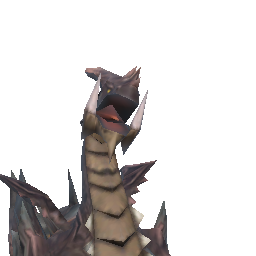
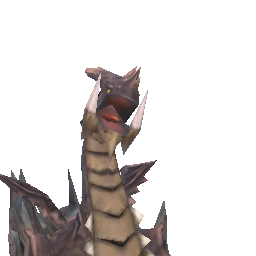
드래곤 보스 크기 1.5배 — 몸 ×6 → ×9, 공격 범위 · 불 · 연출을 크기에 맞춤
사용자 피드백: 보스가 작아 보인다. 몸길이 6.7 → 10.1m · 높이 4.4 → 6.6m.

크기 값 하나로 전부 따라가게 했다: DragonBossSetup.Scale(9) → 프리팹의 sizeFactor(1.5).
패턴 거리 값은 '×6 크기 기준'으로 적어 두고, 깨어날 때 DragonBoss.ApplySize 가 늘린다.
- 몸에 붙은 것은 몸과 같이 (×1.5): 물기 폭 · 꼬리 · 땅 물어뜯기 · 돌진 폭 · 브레스 꼭짓점 · 입 위치
- 전장에 깔리는 것은 덜 (×1.3 — 전장 크기는 그대로라서): 브레스 길이 · 돌진 거리/속도 · 소환 · 물러남
- 조금만 (×1.18 — 피하는 쪽 속도는 그대로라서): 이동 속도 · 불덩이 속도 · 불비 · 불 장판 반경
- 물기가 닿는 끝 · 돌진 앞쪽 · 걷기 보폭은 도구가 실제 크기로 재 넣는다

×9 에서: 물기 폭 4.8 · 끝 7.2m / 브레스 13m / 돌진 폭 5.1 · 최대 20.8m / 이동 2.8m/s (플레이어 3.0 보다 느리게)
꼬리 휩쓸기 · 땅 물어뜯기는 그대로 키우면 붙어 있던 플레이어가 빠져나올 수 없어 줄였다:
꼬리 반경 기준값 5.8 → 4.4 (×9 에서 6.6m) · 예고 0.8 → 0.9초, 충격파 원 4.2 → 3.6 (5.4m)

같이 맞춘 것: 불 이펙트 굵기 · 불덩이 크기 · 얼굴 그림 구도 · 등장 연출 카메라 거리 · 빛 기둥 · 충격파,
테스트 룸 동작 보기 구역 (드래곤 2m 뒤로 · 받침 넓힘 · 안내 '보스 크기 ×9')

확인: 1페이즈 35 · 2 · 3페이즈 49 · 등장 연출 20 · 보스 경로 31 · 소리 34 항목 통과

diff --git a/Assets/Editor/DragonBossSetup.cs b/Assets/Editor/DragonBossSetup.cs
@@ -27,7 +27,11 @@ public static class DragonBossSetup
     const string ControllerPath = OutDir + "/DragonBoss.controller";
     const string MaterialPath = OutDir + "/Dragon.mat";
     // 실제 몸(정점 기준)은 폭 0.4 × 높이 0.7 × 길이 1.1m — ×6 이면 길이 약 6.6m · 높이 4.2m, 지금 보스(골렘, 약 7m)와 비슷하다
-    public const float Scale = 6f;
+    /// <summary>보스 크기 (모델 배율). 2026-11-14 사용자 요청으로 6 → 9 — 몸길이 약 10m · 높이 약 6.6m.
+    /// 패턴 거리 값은 BaseScale(6) 기준으로 적혀 있고, 프리팹에 넣는 sizeFactor(= Scale ÷ BaseScale)에 맞춰 스스로 늘어난다.</summary>
+    public const float Scale = 9f;
+    public const float BaseScale = 6f;
+    public const float SizeFactor = Scale / BaseScale;
     const int BossHp = 1000;   // 지금 보스(골렘)와 같게 — 패턴이 생기면 다시 정한다
 
     static readonly (string file, string state, bool loop)[] ClipFiles =
@@ -562,8 +566,9 @@ public static class DragonBossSetup
             PrefabUtility.UnpackPrefabInstance(go, PrefabUnpackMode.Completely, InteractionMode.AutomatedAction);
             go.name = "DragonFireball";
             var projectile = go.GetComponent<RangedProjectile>();
-            projectile.radius = 0.5f;
-            projectile.visualRadius = 0.7f;
+            float ballSize = Mathf.Lerp(1f, SizeFactor, 0.8f);   // 불덩이도 몸에 맞춰 커진다
+            projectile.radius = 0.5f * ballSize;
+            projectile.visualRadius = 0.7f * ballSize;
             projectile.lifeTime = 3f;
 
             var flame = new GameObject("Flame");
@@ -577,14 +582,14 @@ public static class DragonBossSetup
             main.scalingMode = ParticleSystemScalingMode.Local;
             main.startLifetime = new ParticleSystem.MinMaxCurve(0.25f, 0.4f);
             main.startSpeed = new ParticleSystem.MinMaxCurve(0.2f, 1f);
-            main.startSize = new ParticleSystem.MinMaxCurve(1.2f, 2f);
+            main.startSize = new ParticleSystem.MinMaxCurve(1.2f * ballSize, 2f * ballSize);
             main.startColor = new ParticleSystem.MinMaxGradient(new Color(1f, 0.8f, 0.4f), new Color(1f, 0.45f, 0.12f));
             main.maxParticles = 120;
             var emission = ps.emission;
             emission.rateOverTime = 70f;
             var shape = ps.shape;
             shape.shapeType = ParticleSystemShapeType.Sphere;
-            shape.radius = 0.25f;
+            shape.radius = 0.25f * ballSize;
             var color = ps.colorOverLifetime;
             color.enabled = true;
             var gradient = new Gradient();
@@ -626,6 +631,7 @@ public static class DragonBossSetup
             so.FindProperty("fireMaterial").objectReferenceValue = fire;
             so.FindProperty("smokeMaterial").objectReferenceValue = Require<Material>(SmokeMaterialPath);
             so.FindProperty("font").objectReferenceValue = Require<TMPro.TMP_FontAsset>(TestRoomSetup.FontPath);
+            so.FindProperty("sizeFactor").floatValue = SizeFactor;
             so.ApplyModifiedPropertiesWithoutUndo();
             return PrefabUtility.SaveAsPrefabAsset(go, EntrancePath).GetComponent<DragonEntrance>();
         }
@@ -655,7 +661,7 @@ public static class DragonBossSetup
             if (pose != null && animator != null) pose.SampleAnimation(animator.gameObject, 0.58f);
             Transform jaw = model.GetComponentsInChildren<Transform>(true).FirstOrDefault(t => t.name == "jaw_upper");
             // 위턱 뼈는 머리 아래쪽 뿌리에 있다 — 뿔 · 눈 · 벌린 입이 한가운데 오게 조금 앞 · 아래를 본다
-            Vector3 head = jaw != null ? jaw.position + Vector3.forward * 0.5f - Vector3.up * 0.35f : model.transform.position + Vector3.up * 3f;
+            Vector3 head = jaw != null ? jaw.position + (Vector3.forward * 0.5f - Vector3.up * 0.35f) * SizeFactor : model.transform.position + Vector3.up * 3f * SizeFactor;
             foreach (SkinnedMeshRenderer smr in model.GetComponentsInChildren<SkinnedMeshRenderer>(true)) smr.updateWhenOffscreen = true;
 
             var cam = camGo.AddComponent<Camera>();
@@ -667,7 +673,7 @@ public static class DragonBossSetup
             cam.fieldOfView = 26f;
             cam.nearClipPlane = 0.1f;
             cam.farClipPlane = 60f;
-            cam.transform.position = head + new Vector3(2.8f, 0.4f, 6.2f);   // 드래곤은 +z 를 본다 — 앞 오른쪽에서
+            cam.transform.position = head + new Vector3(2.8f, 0.4f, 6.2f) * SizeFactor;   // 드래곤은 +z 를 본다 — 앞 오른쪽에서 (크기에 맞춰 물러난다)
             cam.transform.LookAt(head);
             cam.targetTexture = rt;
 
@@ -733,7 +739,7 @@ public static class DragonBossSetup
             proxyAnimator.runtimeAnimatorController = controller;
 
             float width = m.max.x - m.min.x, length = m.max.z - m.min.z;
-            float radius = Mathf.Clamp(width * 0.5f, 0.8f, 1.8f);
+            float radius = Mathf.Clamp(width * 0.5f, 0.8f, 1.8f * SizeFactor);
 
             var agent = root.AddComponent<NavMeshAgent>();
             agent.radius = radius;
@@ -767,6 +773,7 @@ public static class DragonBossSetup
             var so = new SerializedObject(dragon);
             so.FindProperty("animator").objectReferenceValue = animator;
             so.FindProperty("introModel").objectReferenceValue = modelPrefab;
+            so.FindProperty("sizeFactor").floatValue = SizeFactor;
             so.FindProperty("walkCycleSpeed").floatValue = Round(m.walkCycleSpeed);
             so.FindProperty("attackLength").floatValue = Round(m.lengths[DragonBoss.AttackState]);
             so.FindProperty("dieLength").floatValue = Round(m.lengths[DragonBoss.DieState]);

diff --git a/Assets/Scripts/DragonBoss/DragonEntrance.cs b/Assets/Scripts/DragonBoss/DragonEntrance.cs
@@ -41,6 +41,8 @@ public class DragonEntrance : MonoBehaviour
     [SerializeField] string bossSubtitle = "공허를 삼키는 용";
 
     [Header("연출")]
+    [Tooltip("몸 크기 배율 = 모델 크기 ÷ 6 (프리팹 도구가 넣는다) — 카메라 거리 · 빛 기둥 · 충격파가 이만큼 물러나고 커진다")]
+    [Min(0.1f)] [SerializeField] float sizeFactor = 1f;
     [SerializeField] float landHeight = 18f;
     [Tooltip("이만큼 누르고 있으면 건너뛴다 (초)")]
     [SerializeField] float skipHold = 0.6f;
@@ -331,8 +333,8 @@ public class DragonEntrance : MonoBehaviour
 
             // 포효 — 죽음 동작 0 ~ 1.7 (머리 들고 입 47°)
             if (!roar && t >= TRoar) { roar = true; CopyPose(DragonBoss.DieState, 0f, 1f); DragonSound.Play(DragonSfx.Roar); }
-            if (!wave1 && t >= 4.85f) { wave1 = true; Ring(core, 12f, 0.55f, new Color(1f, 0.55f, 0.45f, 0.75f)); shake = 0.6f; pulse = 0.8f; }
-            if (!wave2 && t >= 5.5f) { wave2 = true; Ring(core, 14f, 0.6f, new Color(1f, 0.45f, 0.4f, 0.7f)); shake = 0.7f; pulse = 0.9f; }
+            if (!wave1 && t >= 4.85f) { wave1 = true; Ring(core, 12f * Mathf.Lerp(1f, sizeFactor, 0.6f), 0.55f, new Color(1f, 0.55f, 0.45f, 0.75f)); shake = 0.6f; pulse = 0.8f; }
+            if (!wave2 && t >= 5.5f) { wave2 = true; Ring(core, 14f * Mathf.Lerp(1f, sizeFactor, 0.6f), 0.6f, new Color(1f, 0.45f, 0.4f, 0.7f)); shake = 0.7f; pulse = 0.9f; }
             if (!roarHold && t >= TRoar + 1.7f) { roarHold = true; CopyPose(DragonBoss.DieState, 1.7f, 0f); }
 
             // 이름 카드 — 준비 자세 · 체력바 차오름
@@ -435,7 +437,8 @@ public class DragonEntrance : MonoBehaviour
         Vector3 pos, look;
         float fov;
         Vector3 p = player != null ? player.position : core + toPlayer * 15f;
-        Vector3 wide = p + toPlayer * 7f + Vector3.up * 6f, wideLook = core + Vector3.up * 3f;
+        float S = sizeFactor, A = Mathf.Lerp(1f, sizeFactor, 0.6f);   // 몸 기준 / 전장 기준
+        Vector3 wide = p + toPlayer * 7f + Vector3.up * 6f, wideLook = core + Vector3.up * 3f * S;
         if (t < TCrack)
         {
             float u = Mathf.SmoothStep(0f, 1f, t / TCrack);
@@ -447,28 +450,28 @@ public class DragonEntrance : MonoBehaviour
         {
             float u = Mathf.SmoothStep(0f, 1f, (t - TCrack) / (TDrop - TCrack));
             pos = Vector3.Lerp(wide, p + toPlayer * 1.5f + Vector3.up * 4.2f, u);
-            look = Vector3.Lerp(wideLook, core + Vector3.up * 2f, u);
+            look = Vector3.Lerp(wideLook, core + Vector3.up * 2f * S, u);
             fov = Mathf.Lerp(50f, 46f, u);
         }
         else if (t < TTop)
         {
             float u = (t - TDrop) / (TTop - TDrop);
-            pos = core + toPlayer * 9f + Vector3.up * Mathf.Lerp(27f, 23f, u);
+            pos = core + toPlayer * 9f * A + Vector3.up * Mathf.Lerp(27f, 23f, u) * A;
             look = core;
             fov = 55f;
         }
         else if (t < TCard)
         {
             float u = Mathf.SmoothStep(0f, 1f, (t - TTop) / (TCard - TTop));
-            pos = Vector3.Lerp(core + toPlayer * 9.5f + right * 3.5f + Vector3.up * 1.0f, core + toPlayer * 7.6f + right * 3f + Vector3.up * 1.15f, u);
-            look = core + Vector3.up * 3.6f;
+            pos = Vector3.Lerp(core + (toPlayer * 9.5f + right * 3.5f + Vector3.up * 1.0f) * S, core + (toPlayer * 7.6f + right * 3f + Vector3.up * 1.15f) * S, u);
+            look = core + Vector3.up * 3.6f * S;
             fov = 48f;
         }
         else
         {
             float u = Mathf.SmoothStep(0f, 1f, (t - TCard) / (TStart - TCard));
-            pos = Vector3.Lerp(core - right * 13f + toPlayer * 4f + Vector3.up * 4f, core - right * 12f + toPlayer * 5.2f + Vector3.up * 4.3f, u);
-            look = core + Vector3.up * 2.4f - right * 3.5f;
+            pos = Vector3.Lerp(core + (-right * 13f + toPlayer * 4f + Vector3.up * 4f) * S, core + (-right * 12f + toPlayer * 5.2f + Vector3.up * 4.3f) * S, u);
+            look = core + (Vector3.up * 2.4f - right * 3.5f) * S;
             fov = 42f;
         }
         shake = Mathf.MoveTowards(shake, 0f, dt * 1.6f);
@@ -625,7 +628,7 @@ public class DragonEntrance : MonoBehaviour
             SceneManager.MoveGameObjectToScene(pillar, gameObject.scene);
             temp.Add(pillar);
             pillar.transform.position = core;
-            Cylinder(pillar.transform, 4.6f, new Color(1f, 0.3f, 0.22f, 0.22f), "Outer");
+            Cylinder(pillar.transform, 4.6f * sizeFactor, new Color(1f, 0.3f, 0.22f, 0.22f), "Outer");
             Cylinder(pillar.transform, 0.9f, new Color(1f, 0.85f, 0.7f, 0.4f), "Inner");
         }
         pillar.SetActive(true);
@@ -664,8 +667,9 @@ public class DragonEntrance : MonoBehaviour
     {
         shake = 1.0f;
         pulse = 1f;
-        Ring(core, 16f, 0.7f, new Color(1f, 0.85f, 0.7f, 0.85f));
-        Ring(core, 9f, 0.45f, new Color(1f, 0.4f, 0.3f, 0.8f));
+        float area = Mathf.Lerp(1f, sizeFactor, 0.6f);
+        Ring(core, 16f * area, 0.7f, new Color(1f, 0.85f, 0.7f, 0.85f));
+        Ring(core, 9f * area, 0.45f, new Color(1f, 0.4f, 0.3f, 0.8f));
         if (burst != null) burst.Emit(160);
         if (dust != null) dust.Emit(70);
         if (embers != null) embers.Stop(true, ParticleSystemStopBehavior.StopEmitting);

diff --git a/Assets/Scripts/DragonBoss/DragonBoss.cs b/Assets/Scripts/DragonBoss/DragonBoss.cs
@@ -57,6 +57,11 @@ public partial class DragonBoss : MonoBehaviour
     [Tooltip("불덩이 — 몬스터 투사체(RangedProjectile)라 검사 패링으로 되받아칠 수 있다")]
     [SerializeField] GameObject fireballPrefab;
 
+    [Header("크기")]
+    [Tooltip("몸 크기 배율 = 모델 크기 ÷ 6 (프리팹 도구가 넣는다). 아래 거리 값들은 '×6 크기 기준'으로 적혀 있고, 깨어날 때 이 배율에 맞춰 늘어난다 — "
+             + "몸에 붙은 것(물기 · 꼬리 · 돌진 폭)은 그대로, 전장에 깔리는 것(브레스 길이 · 돌진 거리)은 그보다 조금만")]
+    [Min(0.1f)] [SerializeField] float sizeFactor = 1f;
+
     [Header("등장")]
     [Tooltip("나타날 때 플레이어에게서 이만큼 떨어진 길 위에 선다 (원래 자리가 이보다 가까울 때만)")]
     [SerializeField] float spawnDistance = 14f;
@@ -113,6 +118,10 @@ public partial class DragonBoss : MonoBehaviour
     readonly List<DragonTelegraph> telegraphs = new List<DragonTelegraph>();
     readonly List<(Pattern p, float w)> candidates = new List<(Pattern, float)>();
     int phase = 1, pendingPhase = 1;
+    float bodyScale = 1f, areaScale = 1f;   // 크기 배율 — 몸에 붙은 것 / 전장에 깔리는 것
+
+    /// <summary>몸 크기 배율 (모델 크기 ÷ 6).</summary>
+    public float SizeFactor => bodyScale;
     float nextGrowl = 5f, stepPhase;
     AudioSource breathVoice;
 
@@ -138,6 +147,7 @@ public partial class DragonBoss : MonoBehaviour
         agent = GetComponent<NavMeshAgent>();
         health = GetComponent<BossHealth>();
         brain = GetComponent<BossBrain>();
+        ApplySize();
         agent.speed = moveSpeed;
         agent.angularSpeed = turnSpeed;
         agent.acceleration = 12f;
@@ -601,6 +611,46 @@ public partial class DragonBoss : MonoBehaviour
     }
 
     static Vector3 Flat(Vector3 v) => new Vector3(v.x, 0f, v.z);
+
+    // ───────── 크기 (2026-11-14) ─────────
+
+    /// <summary>
+    /// 거리 값들을 몸 크기에 맞춘다 (한 번, 깨어날 때). biteFar · chargeFront · walkCycleSpeed 는 프리팹 도구가 실제 크기로 재 넣으므로 건드리지 않는다.
+    /// </summary>
+    void ApplySize()
+    {
+        bodyScale = Mathf.Max(0.1f, sizeFactor);
+        areaScale = Mathf.Lerp(1f, bodyScale, 0.6f);
+        float slight = Mathf.Lerp(1f, bodyScale, 0.35f);
+
+        // 몸에 붙은 것 — 몸과 같이 커진다
+        biteWidth *= bodyScale;
+        biteNear *= bodyScale;
+        breathApex *= bodyScale;
+        chargeWidth *= bodyScale;
+        tailRadius *= bodyScale;
+        groundBiteCenter *= bodyScale;
+        groundBiteRadius *= bodyScale;
+        nearRange = Mathf.Min(nearRange * bodyScale, biteFar + 0.5f);   // '가까이' 는 물기가 닿는 곳까지
+
+        // 전장에 깔리는 것 — 몸보다 덜 커진다 (전장 크기는 그대로라서)
+        breathRadius *= areaScale;
+        chargeMaxLength *= areaScale;
+        chargeSpeed *= areaScale;
+        midRange *= areaScale;
+        spawnDistance *= areaScale;
+        summonRadius *= areaScale;
+        retreatDistance *= areaScale;
+        rainSpread *= areaScale;
+        fireballLineLength *= areaScale;
+
+        // 조금만 — 피하는 쪽 속도는 그대로라서
+        moveSpeed *= slight;
+        fireballSpeed *= slight;
+        rainRadius *= slight;
+        firePatchRadius *= slight;
+        firePatchSpacing *= slight;
+    }
 
     // ───────── 소리 (DragonSound · 2026-11-14) ─────────
 

diff --git a/Assets/Scripts/DragonBoss/DragonBoss.Phases.cs b/Assets/Scripts/DragonBoss/DragonBoss.Phases.cs
@@ -50,8 +50,8 @@ public partial class DragonBoss
 
     [Header("꼬리 휩쓸기 (2페이즈)")]
     [Tooltip("몸 둘레 범위 (m) — 머리 · 꼬리 끝이 닿는 곳")]
-    [SerializeField] float tailRadius = 5.8f;
-    [SerializeField] float tailWindup = 0.8f;
+    [SerializeField] float tailRadius = 4.4f;   // ×6 크기 기준 — ×9 에서 6.6m (몸 절반 5m + 여유)
+    [SerializeField] float tailWindup = 0.9f;
     [Tooltip("한 바퀴 도는 시간 (초)")]
     [SerializeField] float tailSpin = 0.45f;
     [Tooltip("돌기 전에 반대로 트는 각도")]
@@ -65,7 +65,7 @@ public partial class DragonBoss
     [Header("땅 물어뜯기 (3페이즈)")]
     [Tooltip("충격파 중심 — 몸 기준점 앞으로 m (머리가 땅에 닿는 곳)")]
     [SerializeField] float groundBiteCenter = 4.4f;
-    [SerializeField] float groundBiteRadius = 4.2f;
+    [SerializeField] float groundBiteRadius = 3.6f;   // ×6 크기 기준 — ×9 에서 5.4m
     [Tooltip("목을 당긴 채 더 멈추는 시간 — 큰 한 방이라 예고가 길다")]
     [SerializeField] float groundBiteHold = 0.3f;
     [SerializeField] float groundBiteDamage = 25f;
@@ -160,13 +160,13 @@ public partial class DragonBoss
                 phase = next;
                 OnPhaseChanged?.Invoke(phase);
                 Shake(1.0f);
-                Ring(transform.position, 14f, 0.8f);
+                Ring(transform.position, 14f * areaScale, 0.8f);
             }
             if (roared && !echoed && t >= rise + 0.3f)
             {
                 echoed = true;
                 Shake(0.5f);
-                Ring(transform.position, 10f, 0.6f);
+                Ring(transform.position, 10f * areaScale, 0.6f);
             }
             yield return null;
         }
@@ -203,7 +203,7 @@ public partial class DragonBoss
             yield return null;
         }
         Shake(0.5f);
-        Ring(transform.position, 8f, 0.6f);
+        Ring(transform.position, 8f * areaScale, 0.6f);
         if (CanSummon()) yield return SummonCore(rise, rise);
         BackToIdle(0.4f);
         nextRecover = 0.8f;
@@ -321,7 +321,7 @@ public partial class DragonBoss
             {
                 begin = t;
                 Shake(0.5f);
-                Ring(transform.position, 7f, 0.5f);
+                Ring(transform.position, 7f * areaScale, 0.5f);
                 foreach (Vector3 p in points) marks.Add(Track(DragonTelegraph.Circle(telegraphMaterial, p, rainRadius)));
             }
             for (int i = 0; i < marks.Count; i++)
@@ -444,8 +444,8 @@ public partial class DragonBoss
         yield return TurnToTarget(0.25f);
         Vector3 back = -Flat(transform.forward).normalized, start = transform.position;
         float travel = retreatDistance;
-        if (agent.isOnNavMesh && NavMesh.Raycast(start, start + back * (retreatDistance + 2f), out NavMeshHit edge, NavMesh.AllAreas))
-            travel = Mathf.Min(retreatDistance, edge.distance - 2f);
+        if (agent.isOnNavMesh && NavMesh.Raycast(start, start + back * (retreatDistance + 2f * bodyScale), out NavMeshHit edge, NavMesh.AllAreas))
+            travel = Mathf.Min(retreatDistance, edge.distance - 2f * bodyScale);
 
         // 웅크림 — 목을 당기고 날개를 편다 (공격 ①)
         for (float t = 0f; t < 0.22f; t += Time.deltaTime)

diff --git a/Assets/Scripts/DragonBoss/DragonBoss.Patterns.cs b/Assets/Scripts/DragonBoss/DragonBoss.Patterns.cs
@@ -79,11 +79,12 @@ public partial class DragonBoss
 
     void BuildFx()
     {
-        if (fireMaterial != null) breathFx = DragonFx.Breath(transform, fireMaterial, breathRadius + breathApex - 3.5f, breathHalfAngle);
+        // 입은 몸 기준점에서 약 3.5m 앞(×6 크기 기준)에 있다
+        if (fireMaterial != null) breathFx = DragonFx.Breath(transform, fireMaterial, breathRadius + breathApex - 3.5f * bodyScale, breathHalfAngle, bodyScale);
         if (smokeMaterial != null)
         {
             dustFx = DragonFx.Dust(transform, smokeMaterial, chargeWidth);
-            dustFx.transform.localPosition = new Vector3(0f, 0.4f, -1f);
+            dustFx.transform.localPosition = new Vector3(0f, 0.4f, -1f) * bodyScale;
         }
     }
 
@@ -96,7 +97,8 @@ public partial class DragonBoss
     }
 
     /// <summary>입 끝 — 위턱 뼈에서 앞으로 조금.</summary>
-    Vector3 Mouth() => jawUpper != null ? jawUpper.position + transform.forward * 0.9f : transform.position + transform.forward * 3f + Vector3.up * 3f;
+    Vector3 Mouth() => jawUpper != null ? jawUpper.position + transform.forward * (0.9f * bodyScale)
+                                        : transform.position + (transform.forward * 3f + Vector3.up * 3f) * bodyScale;
 
     DragonTelegraph Track(DragonTelegraph t)
     {
@@ -379,7 +381,7 @@ public partial class DragonBoss
             yield break;
         }
 
-        DragonTelegraph warning = Track(DragonTelegraph.Rect(telegraphMaterial, start, forward, chargeWidth, -1f, travel + chargeFront));
+        DragonTelegraph warning = Track(DragonTelegraph.Rect(telegraphMaterial, start, forward, chargeWidth, -1f * bodyScale, travel + chargeFront));
         Sfx(DragonSfx.Windup);
         for (float t = 0f; t < chargeWindup; t += Time.deltaTime)
         {
@@ -413,9 +415,9 @@ public partial class DragonBoss
             if (sinceFire >= firePatchSpacing)
             {
                 sinceFire = 0f;
-                LeaveFire(transform.position - forward * 1.2f, firePatchRadius * 0.85f);
+                LeaveFire(transform.position - forward * (1.2f * bodyScale), firePatchRadius * 0.85f);
             }
-            if (!hitDone && PlayerInRect(transform.position, forward, chargeWidth, -2.5f, chargeFront))
+            if (!hitDone && PlayerInRect(transform.position, forward, chargeWidth, -2.5f * bodyScale, chargeFront))
             {
                 hitDone = true;
                 HitPlayer(chargeDamage, transform.position, 0.6f);

diff --git a/Assets/Scripts/DragonBoss/DragonFx.cs b/Assets/Scripts/DragonBoss/DragonFx.cs
@@ -8,7 +8,7 @@ using UnityEngine;
 public static class DragonFx
 {
     /// <summary>불 브레스 — reach(m) 까지 닿고 ±halfAngle 로 퍼진다. 위치 · 방향은 매 프레임 입에 맞춰 옮긴다.</summary>
-    public static ParticleSystem Breath(Transform parent, Material fire, float reach, float halfAngle)
+    public static ParticleSystem Breath(Transform parent, Material fire, float reach, float halfAngle, float scale = 1f)
     {
         var go = new GameObject("BreathFx");
         go.transform.SetParent(parent, false);
@@ -24,7 +24,7 @@ public static class DragonFx
         main.startLifetime = new ParticleSystem.MinMaxCurve(life * 0.85f, life);
         // 끝에선 거의 투명해지므로 보이는 길이가 예고 끝에 닿게 조금 더 빨리
         main.startSpeed = new ParticleSystem.MinMaxCurve(reach / life * 1.15f, reach / life * 1.35f);
-        main.startSize = new ParticleSystem.MinMaxCurve(0.7f, 1.3f);
+        main.startSize = new ParticleSystem.MinMaxCurve(0.7f * scale, 1.3f * scale);   // 몸 크기에 맞춰 불도 굵어진다
         main.startRotation = new ParticleSystem.MinMaxCurve(0f, Mathf.PI * 2f);
         main.startColor = new ParticleSystem.MinMaxGradient(new Color(1f, 0.85f, 0.45f), new Color(1f, 0.55f, 0.15f));
         main.maxParticles = 600;
@@ -36,7 +36,7 @@ public static class DragonFx
         var shape = ps.shape;
         shape.shapeType = ParticleSystemShapeType.Cone;
         shape.angle = halfAngle * 0.8f;   // 가장자리 입자는 예고 끝보다 조금 안쪽
-        shape.radius = 0.35f;
+        shape.radius = 0.35f * scale;
         shape.scale = new Vector3(1f, 0.35f, 1f);   // 위아래로 납작하게 — 바닥 부채꼴처럼 옆으로 퍼진다
 
         var size = ps.sizeOverLifetime;

diff --git a/Assets/Editor/TestRoomLayout.cs b/Assets/Editor/TestRoomLayout.cs
@@ -76,8 +76,9 @@ internal static class TestRoomLayout
 
     // ── 드래곤 동작 보기 (북쪽 가운데, 2026-11-13) — 부착물 구역(x ≤ −8.7)과 개조 구역(x ≥ 6) 사이 빈자리 ──
     //    드래곤은 남쪽(발판 · 카메라 쪽)을 본다. 발판은 그 앞 한 줄
-    public static readonly Vector3 DragonShowcase = new Vector3(-3f, 0f, 15f);
-    public const float DragonDaisRadius = 4.5f;
+    //    2026-11-14 보스 크기 ×9 — 머리가 안내 글자를 덮지 않게 2m 뒤로, 받침은 4.5 → 5.6
+    public static readonly Vector3 DragonShowcase = new Vector3(-3f, 0f, 17f);
+    public const float DragonDaisRadius = 5.6f;
     public static readonly Vector3 DragonShowcaseLabel = new Vector3(-3f, 0.1f, 10.4f);
     public static readonly Vector3 DragonStatusLabel = new Vector3(-3f, 0.1f, 9.3f);
     public const float DragonPadZ = 5f;
